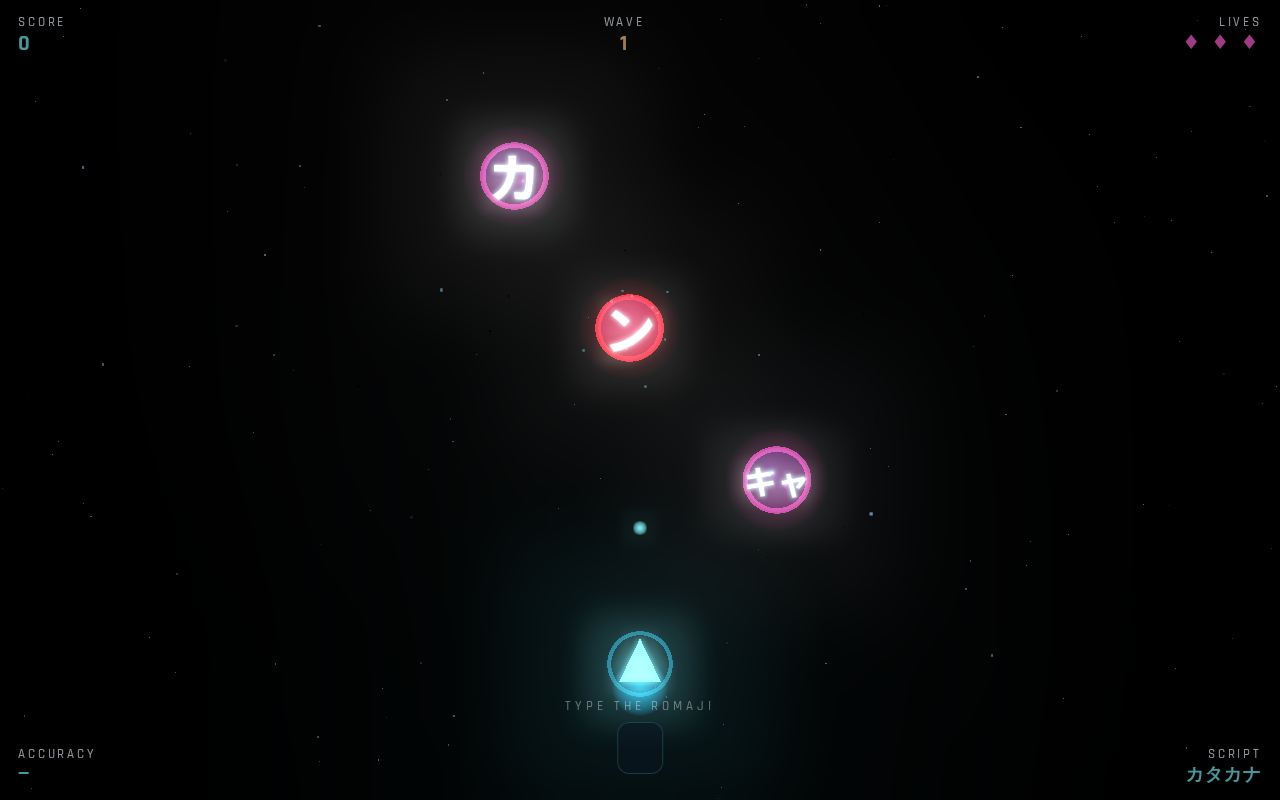
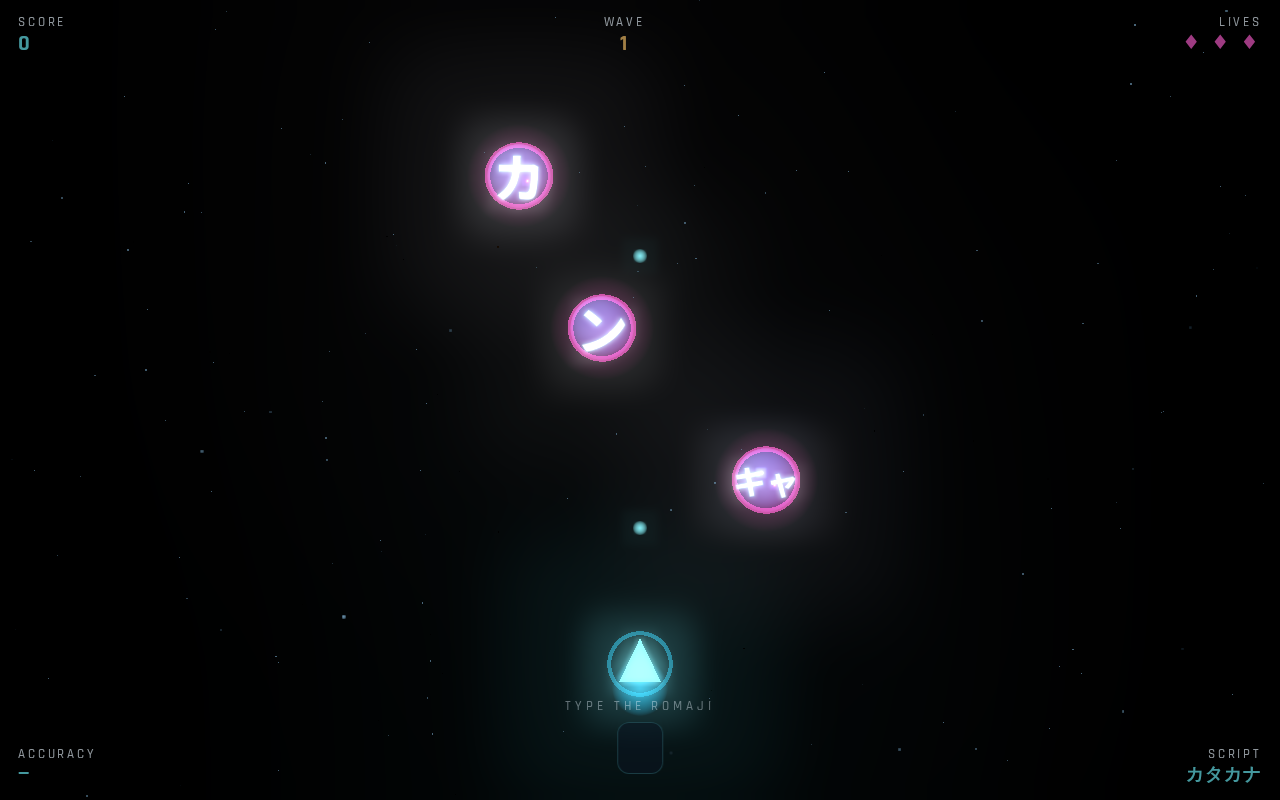
Make the enemy bubble shading actually readable in gameplay
The sphere added last commit was technically lit but far too subtle to
notice at a glance: dim ambient, modest light intensity, and a dark
semi-transparent material all combined to make it barely distinguishable
from a flat ring. Pushed the contrast hard — much stronger/dimmer
key-light-vs-ambient ratio, a brighter and nearly-opaque base color, and a
glossier (lower roughness) material for a crisper highlight — so the
shaded highlight/shadow gradient is now obvious during actual play, not
just visible under pixel-level inspection.

Claude-Session: https://claude.ai/code/session_019cpcKUdB5Yisp8d3dSsc5r

Changed region(s): [[0.4062, 0.3438, 0.5312, 0.4688], [0.5625, 0.5625, 0.6562, 0.6562], [0.375, 0.1562, 0.4375, 0.25]]

diff --git a/index.html b/index.html
@@ -483,11 +483,11 @@ scene.fog = new THREE.FogExp2(0x05060b, 0.0032);
 // Everything else in the scene is unlit (MeshBasicMaterial/Sprite), so these
 // only matter to the enemy bubble's lit sphere below — they give it an actual
 // shaded highlight/terminator instead of a flat silhouette.
-scene.add(new THREE.AmbientLight(0x2a3660, 1.1));
-const bubbleKey = new THREE.DirectionalLight(0xbfe9ff, 1.8);
+scene.add(new THREE.AmbientLight(0x15182a, 0.4));
+const bubbleKey = new THREE.DirectionalLight(0xdcf3ff, 3.2);
 bubbleKey.position.set(-20, 30, 60);
 scene.add(bubbleKey);
-const bubbleRim = new THREE.DirectionalLight(0xff6fe0, 0.8);
+const bubbleRim = new THREE.DirectionalLight(0xff6fe0, 1.3);
 bubbleRim.position.set(25, -15, 40);
 scene.add(bubbleRim);
 
@@ -704,8 +704,8 @@ function spawnEnemy(entry, speed){
   // that depth, so nothing about its on-screen size changes.
   const bubble = new THREE.Mesh(
     new THREE.SphereGeometry(4, 28, 20),
-    new THREE.MeshPhysicalMaterial({ color: 0x3c4f8c, transparent: true, opacity: 0.8,
-      roughness: 0.3, metalness: 0.1, clearcoat: 0.7, clearcoatRoughness: 0.2,
+    new THREE.MeshPhysicalMaterial({ color: 0x6a86d9, transparent: true, opacity: 0.94,
+      roughness: 0.12, metalness: 0.2, clearcoat: 1, clearcoatRoughness: 0.08,
       depthWrite: false })
   );
   bubble.position.z = -4.2;
